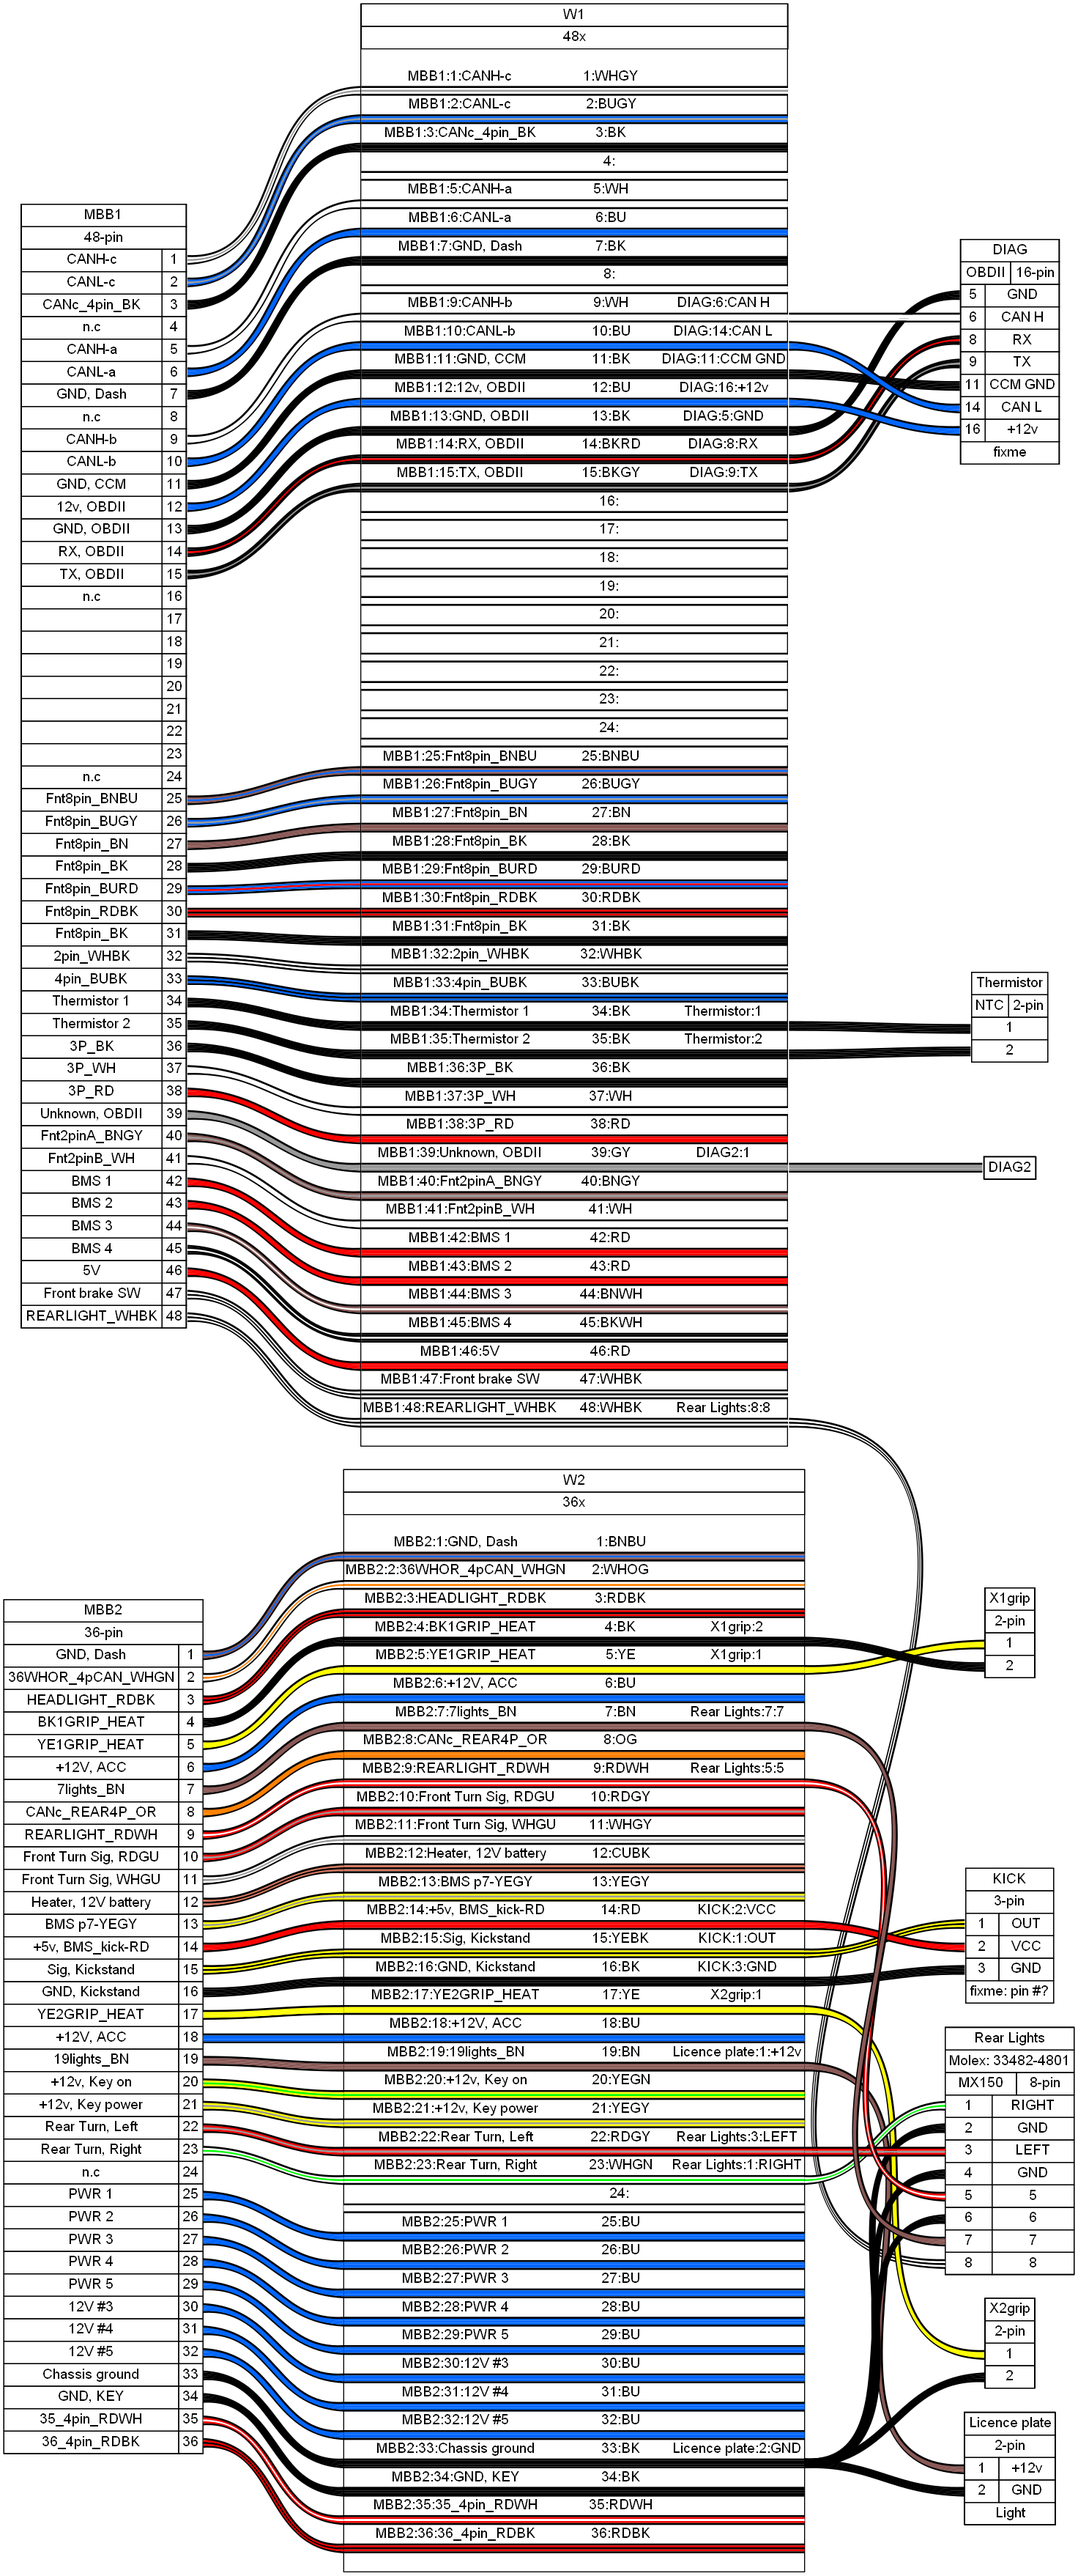
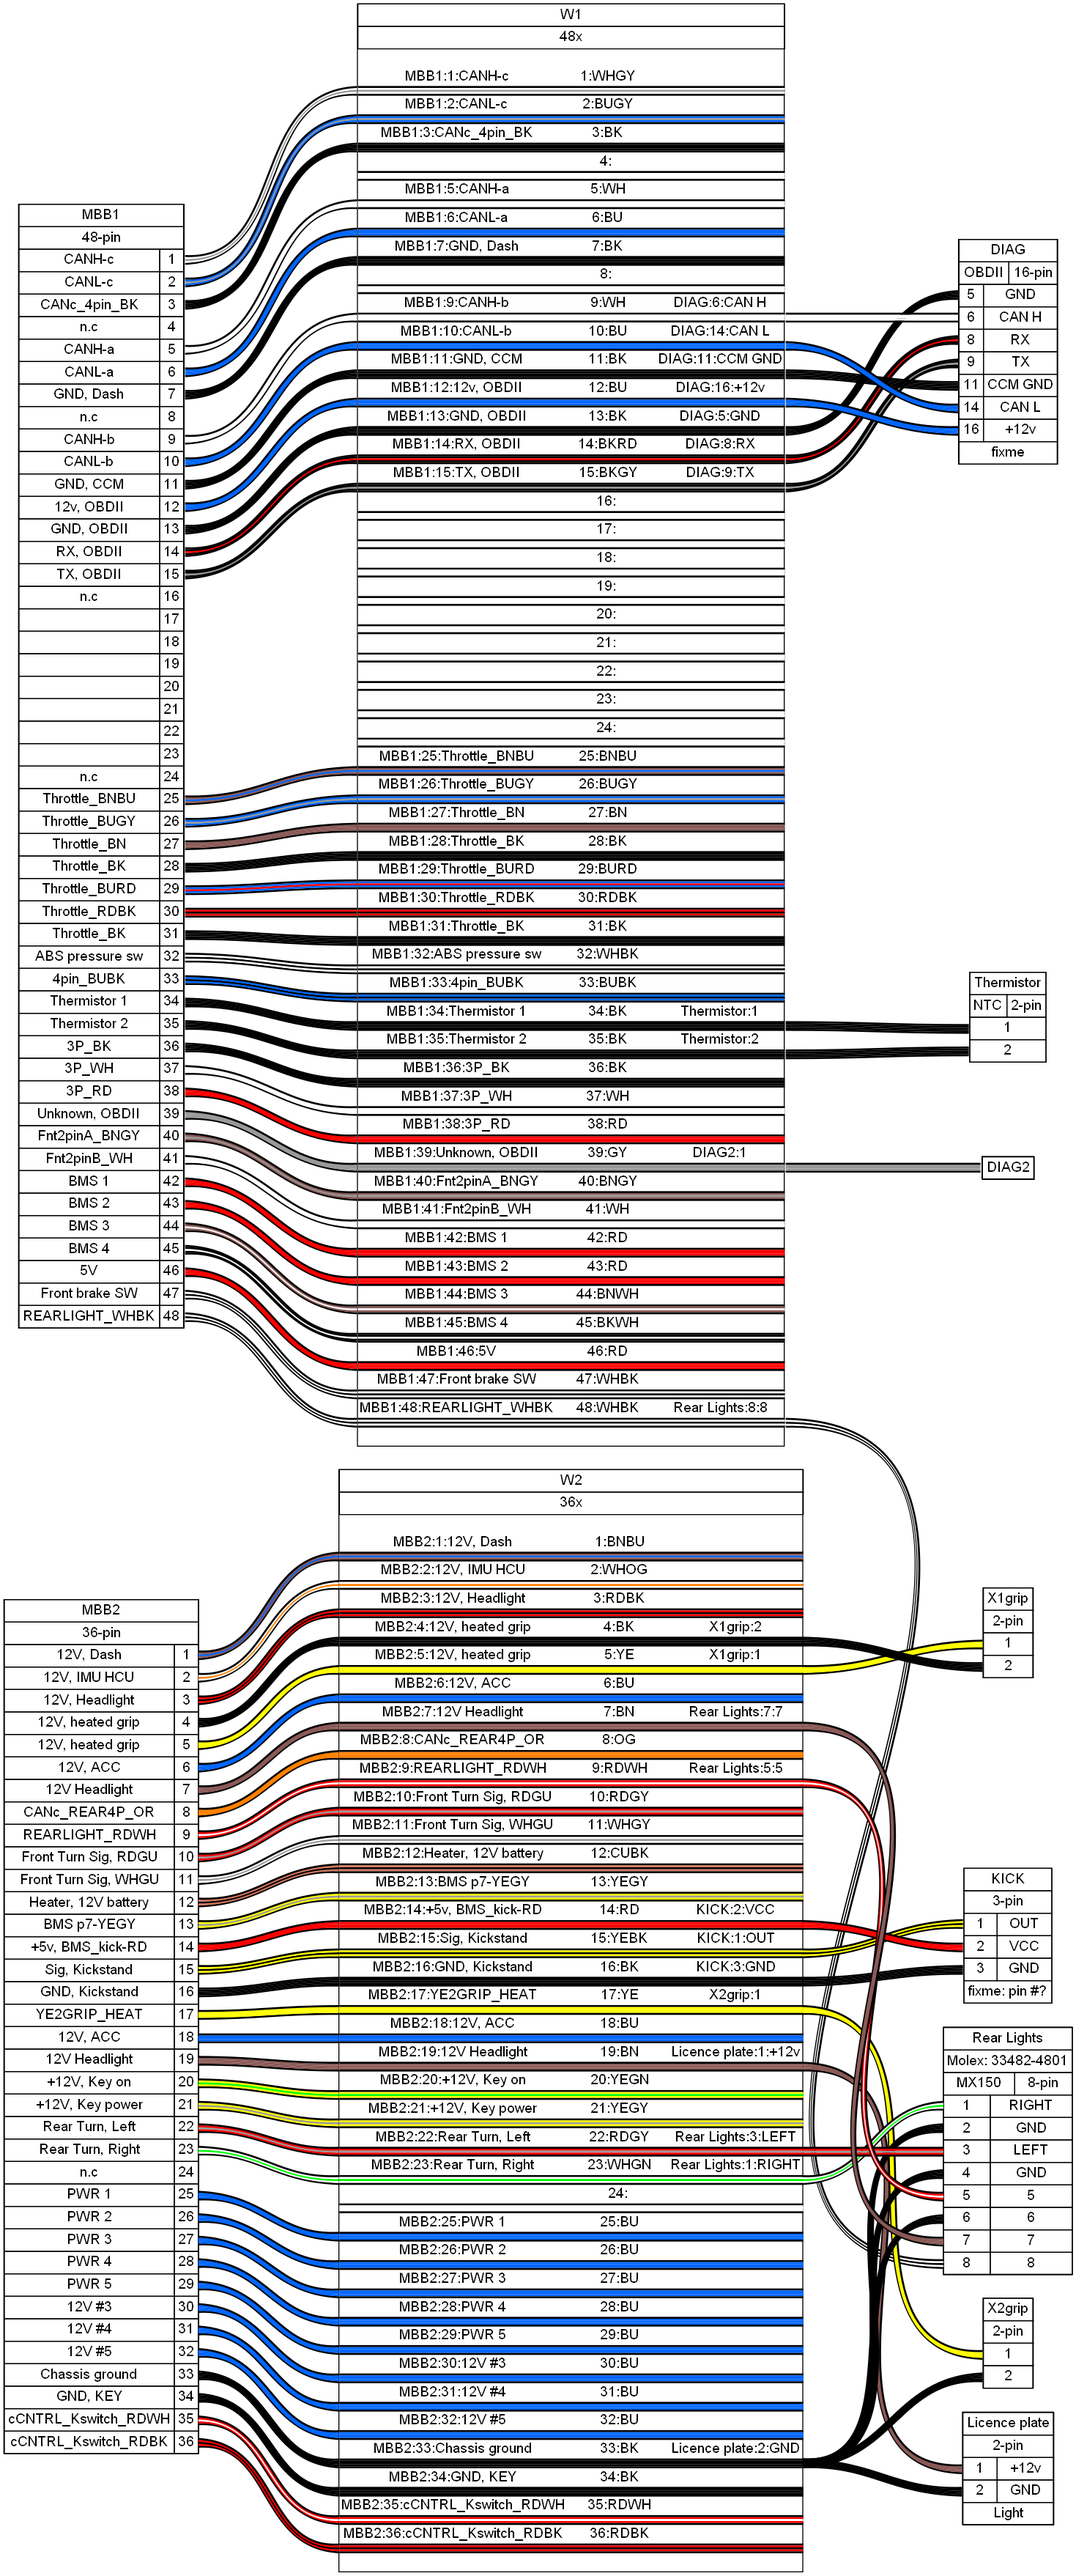
update and correct labels

diff --git a/output.md b/output.md
@@ -113,7 +113,7 @@ connections:
   -
     - DASH: [1,4,7,8,12,14,15,17,20]
     - W1: [1,2,4,5,7-11] 
-    - MODE: [5,5,4,10,9,1,2,3,7]
+    - MODE: [5,8,4,10,9,1,2,3,7]
   -
     - DASH: [31-34]
     - W1: [15-18]
@@ -286,14 +286,14 @@ connectors:
   MBB1:
 #    pincount: 48
     pinlabels: [CANH-c,CANL-c,CANc_4pin_BK,'n.c',CANH-a,CANL-a,'GND, Dash','n.c',CANH-b,CANL-b,'GND, CCM','12v, OBDII','GND, OBDII','RX, OBDII','TX, OBDII','n.c',
-      ' ',' ',' ',' ',' ',' ',' ','n.c',Fnt8pin_BNBU,Fnt8pin_BUGY,Fnt8pin_BN,Fnt8pin_BK,Fnt8pin_BURD,Fnt8pin_RDBK,Fnt8pin_BK,2pin_WHBK,
+      ' ',' ',' ',' ',' ',' ',' ','n.c',Throttle_BNBU,Throttle_BUGY,Throttle_BN,Throttle_BK,Throttle_BURD,Throttle_RDBK,Throttle_BK,'ABS pressure sw',
       4pin_BUBK,'Thermistor 1','Thermistor 2',3P_BK,3P_WH,3P_RD,'Unknown, OBDII',Fnt2pinA_BNGY,Fnt2pinB_WH,'BMS 1','BMS 2','BMS 3','BMS 4',5V,'Front brake SW','REARLIGHT_WHBK']
 
   MBB2:
 #    pincount: 36
-    pinlabels: ['GND, Dash',36WHOR_4pCAN_WHGN,HEADLIGHT_RDBK,BK1GRIP_HEAT,YE1GRIP_HEAT,'+12V, ACC',7lights_BN,CANc_REAR4P_OR,REARLIGHT_RDWH,'Front Turn Sig, RDGU','Front Turn Sig, WHGU','Heater, 12V battery',
-      'BMS p7-YEGY','+5v, BMS_kick-RD','Sig, Kickstand','GND, Kickstand',YE2GRIP_HEAT,'+12V, ACC',19lights_BN,'+12v, Key on','+12v, Key power','Rear Turn, Left','Rear Turn, Right','n.c',
-      'PWR 1','PWR 2','PWR 3','PWR 4','PWR 5','12V #3','12V #4','12V #5','Chassis ground','GND, KEY',35_4pin_RDWH,36_4pin_RDBK]    
+    pinlabels: ['12V, Dash','12V, IMU HCU','12V, Headlight','12V, heated grip','12V, heated grip','12V, ACC','12V Headlight',CANc_REAR4P_OR,REARLIGHT_RDWH,'Front Turn Sig, RDGU','Front Turn Sig, WHGU','Heater, 12V battery',
+      'BMS p7-YEGY','+5v, BMS_kick-RD','Sig, Kickstand','GND, Kickstand',YE2GRIP_HEAT,'12V, ACC','12V Headlight','+12V, Key on','+12V, Key power','Rear Turn, Left','Rear Turn, Right','n.c',
+      'PWR 1','PWR 2','PWR 3','PWR 4','PWR 5','12V #3','12V #4','12V #5','Chassis ground','GND, KEY',cCNTRL_Kswitch_RDWH,cCNTRL_Kswitch_RDBK]    
 
   Thermistor:
     type: NTC
